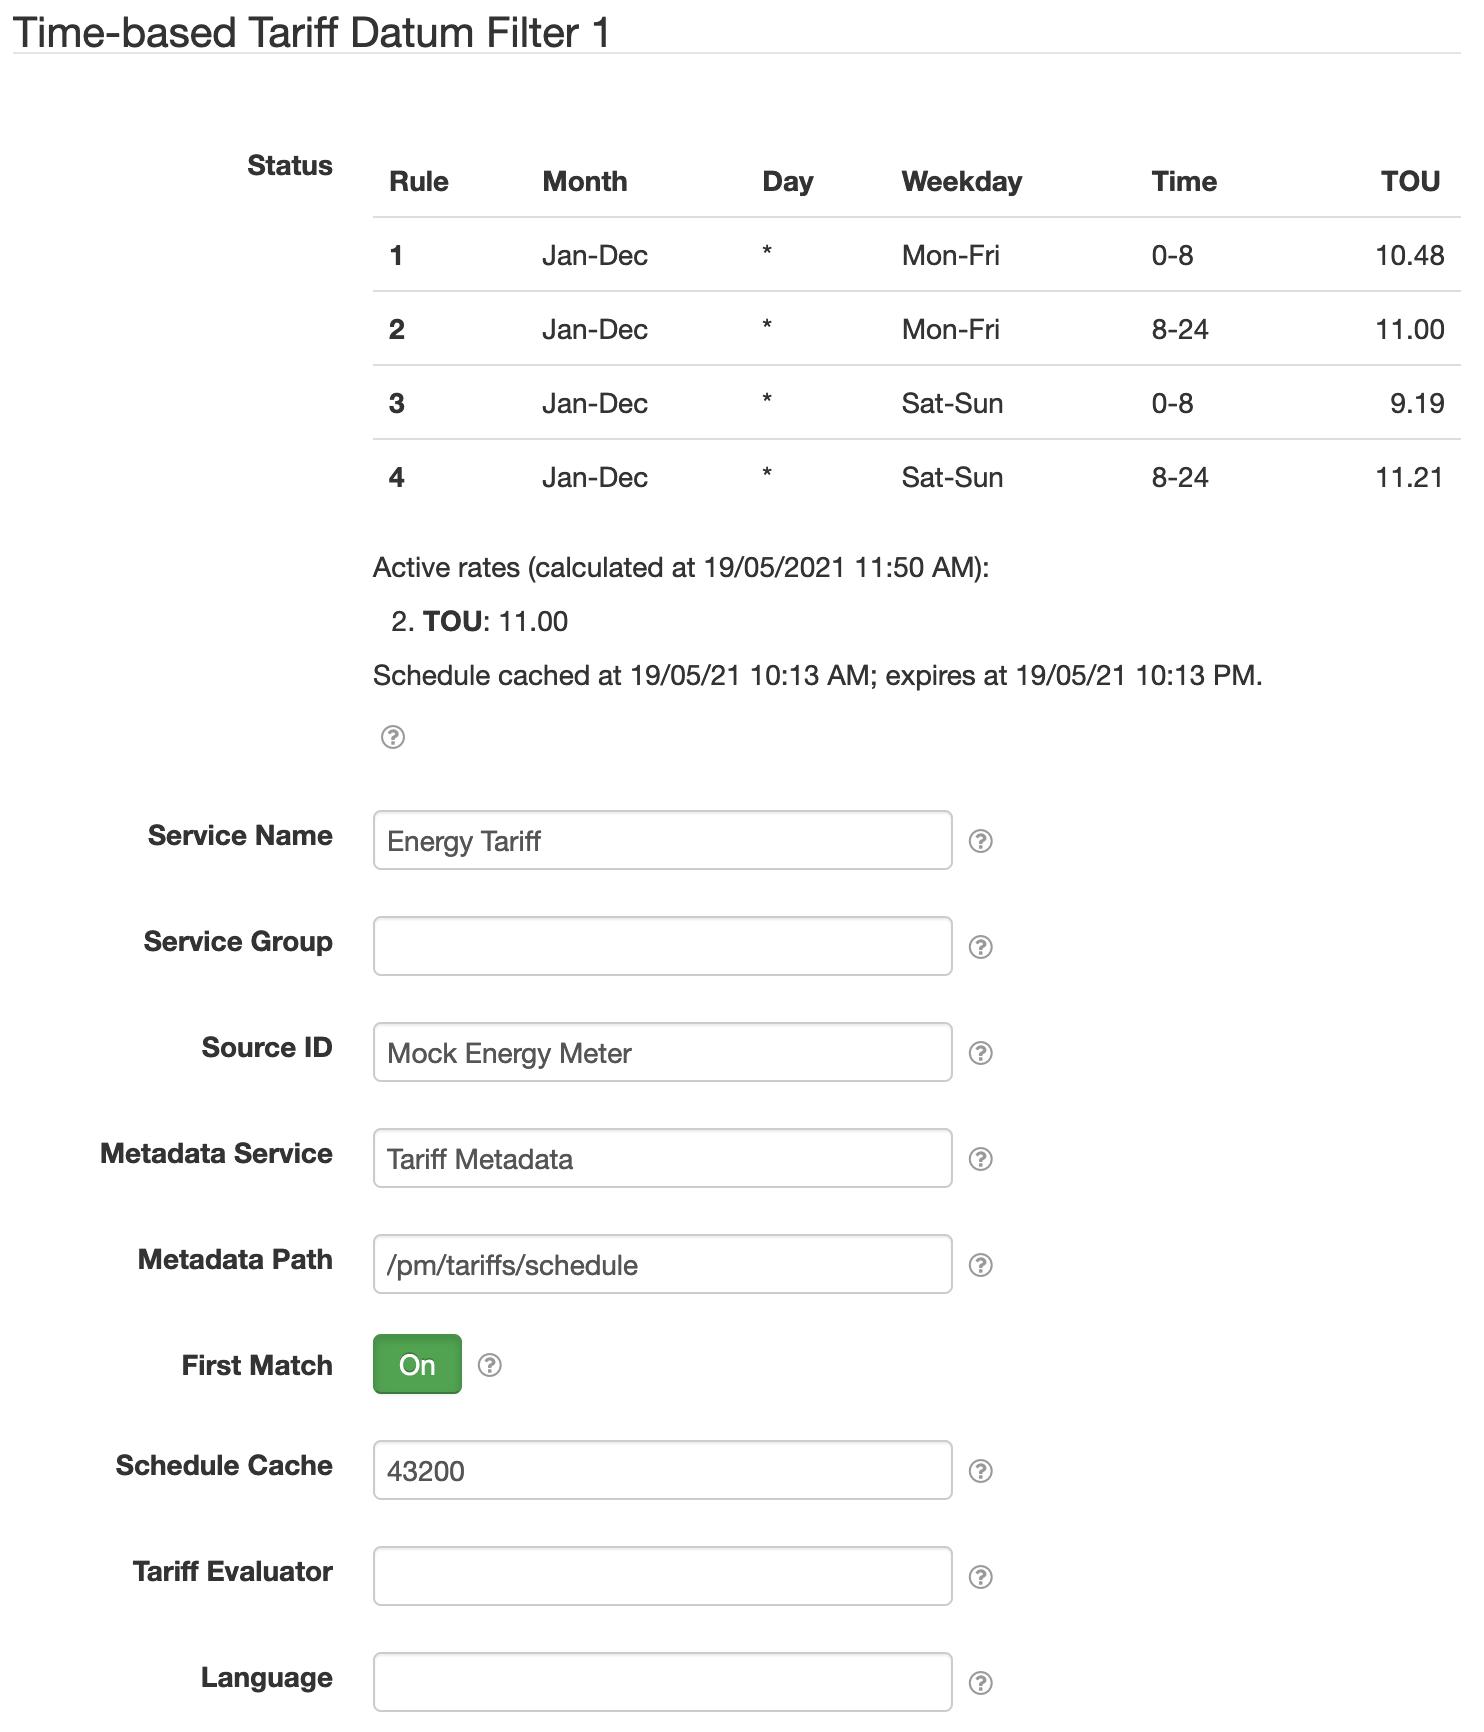
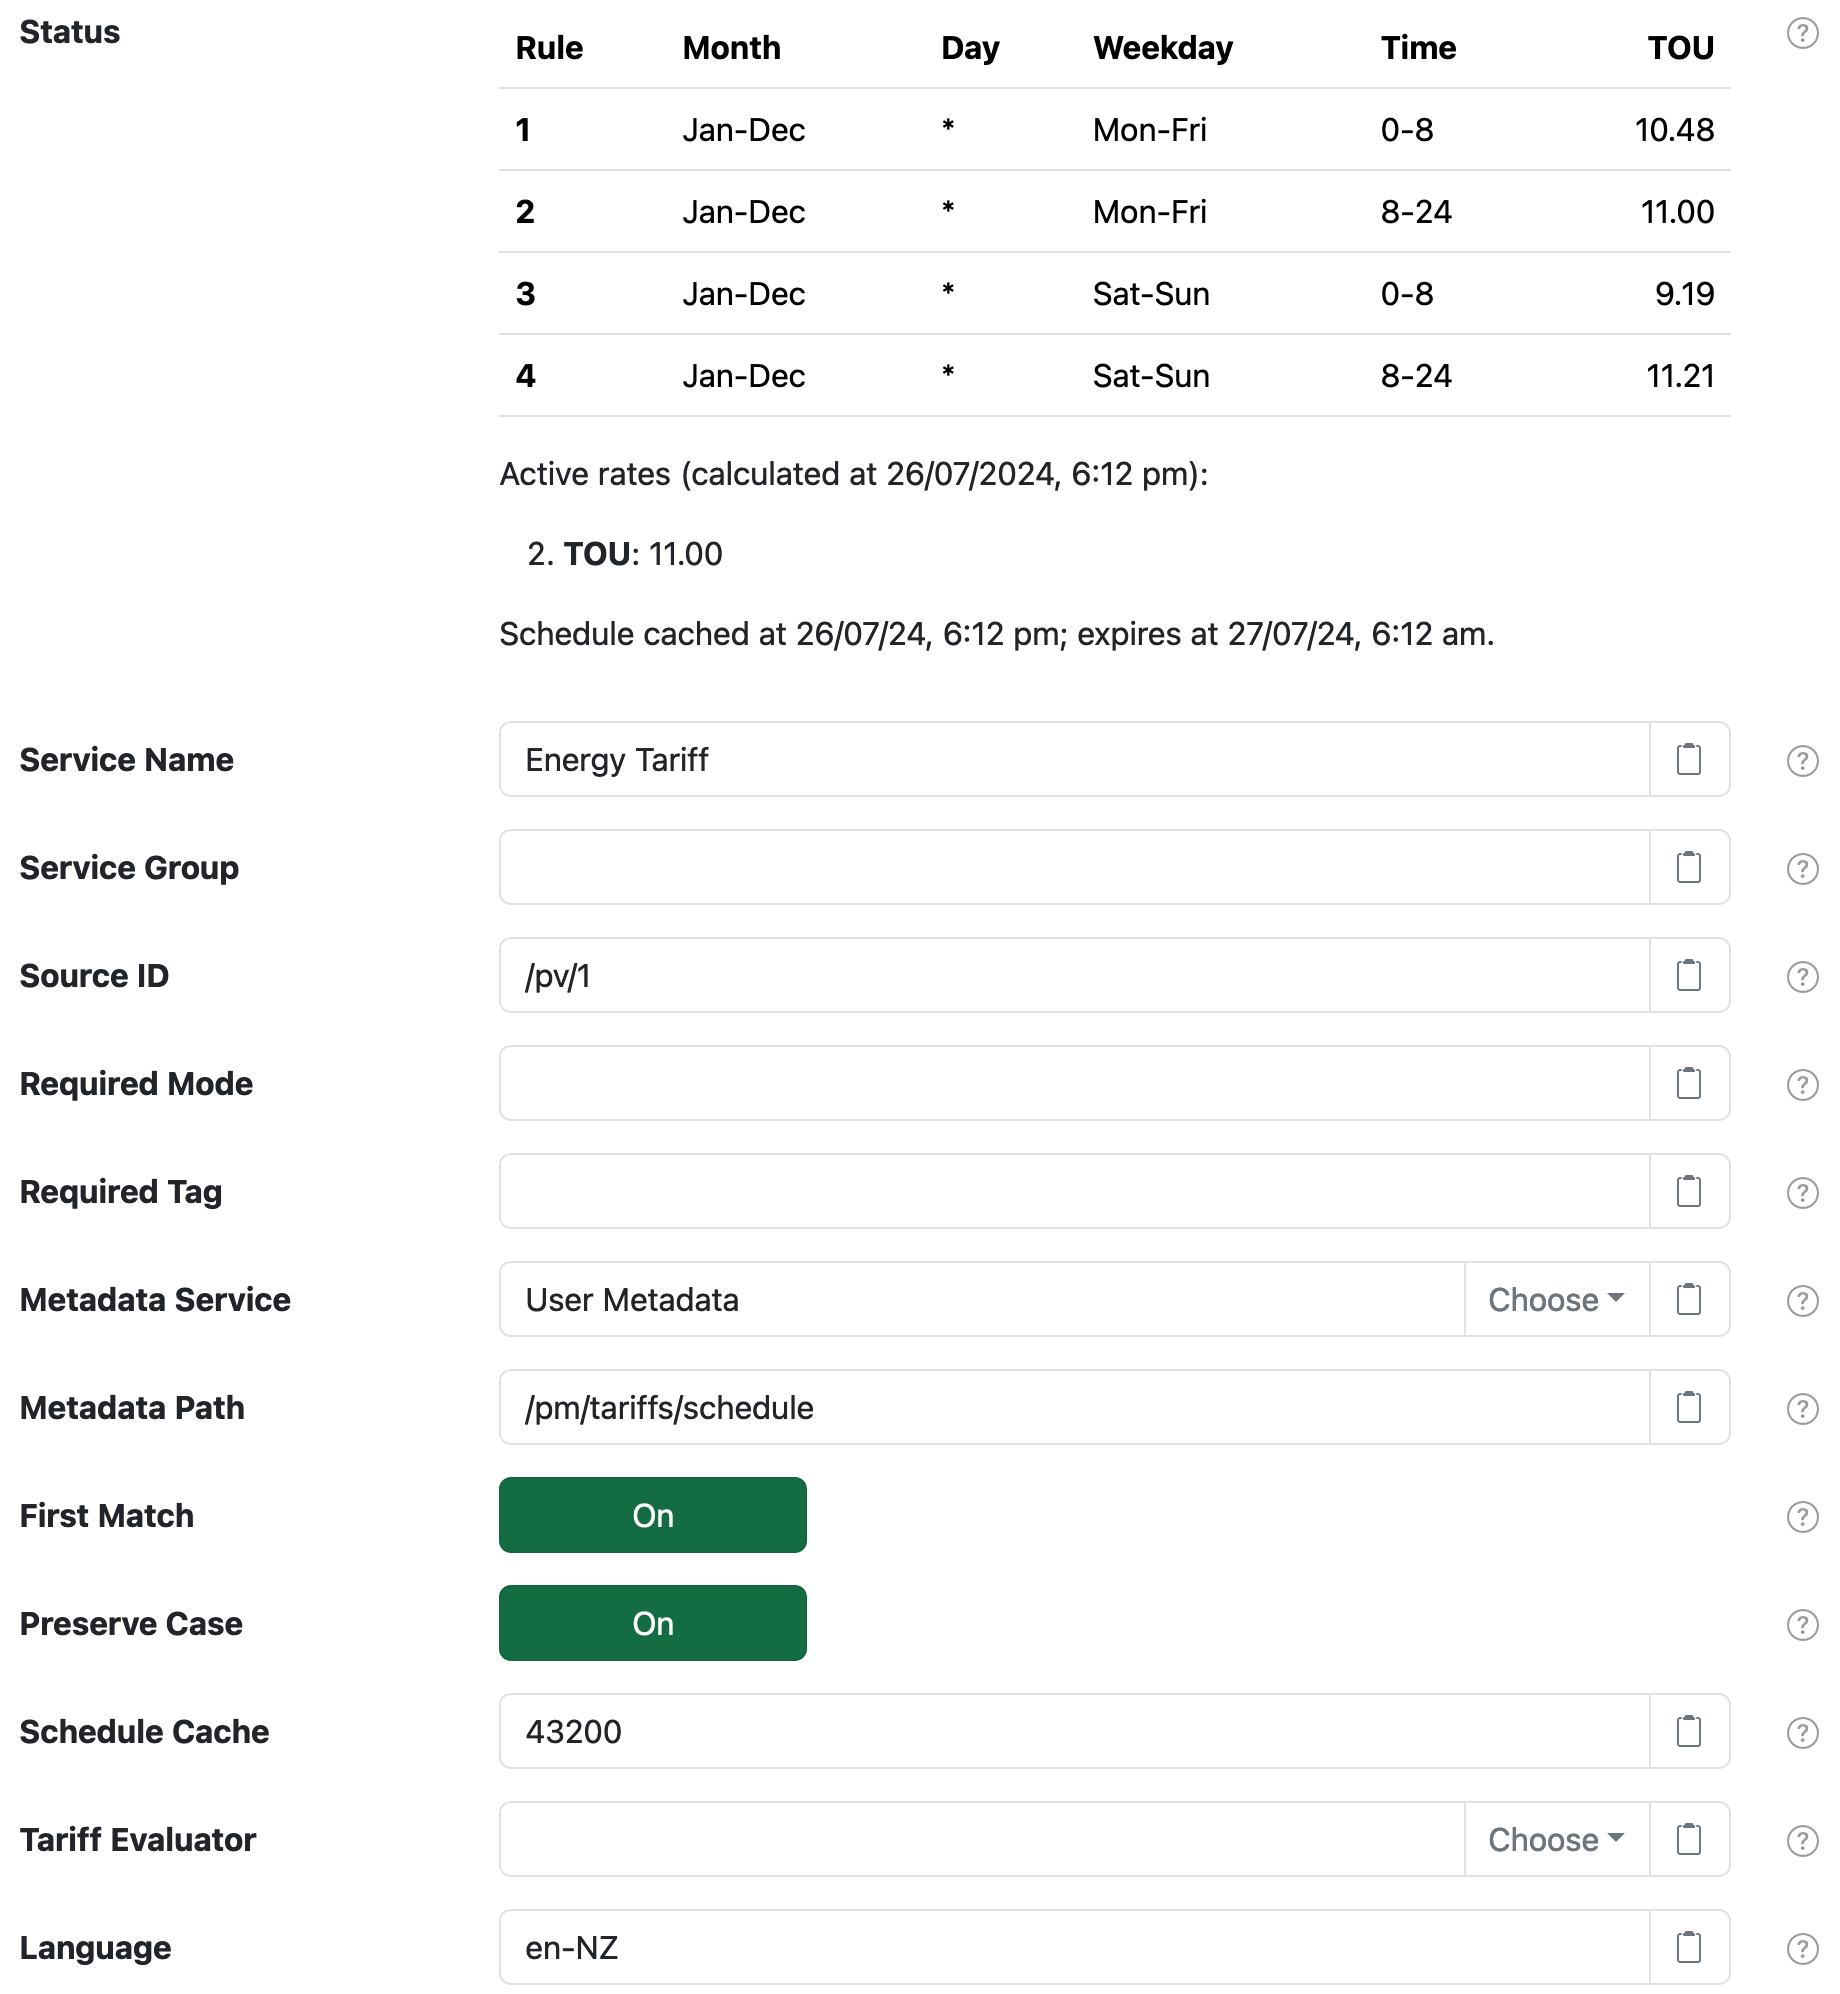
Update to latest Tariff API.

diff --git a/net.solarnetwork.node.datum.filter.tariff/src/net/solarnetwork/node/datum/filter/tariff/TariffDatumFilterService.java b/net.solarnetwork.node.datum.filter.tariff/src/net/solarnetwork/node/datum/filter/tariff/TariffDatumFilterService.java
@@ -175,7 +175,7 @@ public class TariffDatumFilterService extends BaseDatumFilterSupport
 		result.add(new BasicTextFieldSettingSpecifier("scheduleCacheSeconds",
 				String.valueOf(DEFAULT_SCHEDULE_CACHE_SECONDS)));
 		result.add(new BasicTextFieldSettingSpecifier("evaluatorUid", null, false,
-				"(objectClass=net.solarnetwork.domain.tariff.TemporalRangesTariffEvaluator)"));
+				"(objectClass=net.solarnetwork.domain.tariff.TemporalTariffEvaluator)"));
 		result.add(new BasicTextFieldSettingSpecifier("language", null));
 		return result;
 	}

diff --git a/net.solarnetwork.node.datum.filter.tariff/README.md b/net.solarnetwork.node.datum.filter.tariff/README.md
@@ -15,7 +15,7 @@ Once installed, a new **Time-based Tariff Datum Filter** component will appear o
 **Settings > Datum Filter** page on your SolarNode. Click on the **Manage** button to configure 
 filters.
 
-![Tariff filter settings](docs/solarnode-tariff-filter-settings.png)
+<img alt="Tariff filter settings" src="docs/solarnode-tariff-filter-settings.png" width="920">
 
 # Settings
 
@@ -48,21 +48,24 @@ Each filter configuration contains the following overall settings:
 
 # Metadata Service
 
-SolarNode provides a **User Metadata Service** component that this filter can use for the Metadata
-Service setting. This allows you to configure the tariff schedule as user metadata in SolarNetwork
-and then SolarNode will download the schedule and use it as needed.
+SolarNode provides **Node Metadata Service** and **User Metadata Service** components that this filter
+can use for the **Metadata Service** setting. This allows you to configure the tariff schedule as either
+node or user metadata in SolarNetwork and then SolarNode will download the schedule and use it as needed.
 
-![User Metadata Service settings](docs/solarnode-user-metadata-settings.png)
+The **Node Metadata Service** does not require any configuration to use (its **Service Name** is simply
+`Node Metadata Service`), but the **User Metadata Service** requires setting up.
+
+<img alt="User Metadata Service settings" src="docs/solarnode-user-metadata-settings.png" width="697">
 
 You must configure a SolarNetwork security token to use the User Metadata Service. We recommend
 that you create a **Data** security token in SolarNetwork with a limited security policy that includes an **API Path** of just `/users/meta` and a **User Metadata Path** of something granular like `/pm/tariffs/**`. This will give SolarNode access to just the tariff metadata under the `/pm/tariffs` metadata path.
 
-![Tariff metadata security token](docs/solaruser-tariff-metadata-security-token.png)
+<img alt="Tariff metadata security token" src="docs/solaruser-tariff-metadata-security-token.png" width="956">
 
 The [SolarNetwork API Explorer][api-explorer] can be used to add the necessary tariff schedule
 metadata to your account. For example:
 
-![API Explorer add tariff metadata](docs/api-explorer-add-tariff-user-metdata.png)
+<img alt="API Explorer add tariff metadata" src="docs/api-explorer-add-tariff-user-metdata.png" width="678">
 
 # Tariff schedule format
 
@@ -87,21 +90,29 @@ range can be left empty to represent **all values**. The time constraint columns
 | 3      | Weekday range | An inclusive day-of-week range. Weekdays can be specified as numbers (1-7) with Monday being `1` and Sunday being `7`, or abbreviations (Mon-Sun) or full names (Monday - Sunday). When using text names case does not matter and they will be parsed using the **Lanauage** setting. |
 | 4      | Time range | An **inclusive - exclusive** time-of-day range. The time can be specified as whole hour numbers (0-24) or `HH:MM` style (`00:00` - `24:00`). |
 
+## Range sets
+
+All range values can be specified as a comma-delimited set of ranges, so disparate ranges can be used.
+For example a Month range could be specified as `Jan-Mar,Oct-Dec` to represent the overall set of months
+including January, February, March, October, November, and December.
+
+## Rate columns
+
 Starting on column 5 of the tariff schedule are arbitrary rate values to add to datum when the 
 corresponding constraints are satisfied. The name of the datum property is derived from the **header
 row** of the column, adapted according to the following rules:
 
- 1. change to lower case
+ 1. change to lower case (if **Preserve Case** is disabled)
  2. replacing any runs of non-alphanumeric or underscore with a single underscore
  3. removing any leading/trailing underscores
  
 Here are some examples of the header name to the equivalent property name:
 
-| Rate Header Name         | Datum Property Name |
-|:-------------------------|:--------------------|
-| TOU                      | `tou`               |
-| Foo Bar                  | `foo_bar`           |
-| This Isn't A Great Name! | `this_isn_t_a_great_name` |
+| Rate Header Name         | Datum Property Name | Datum Property Name with Preserve Case |
+|:-------------------------|:--------------------|:---------------------------------------|
+| TOU                      | `tou`               | `TOU` |
+| Foo Bar                  | `foo_bar`           | `Foo_Bar` |
+| This Isn't A Great Name! | `this_isn_t_a_great_name` | `This_Isn_t_A_Great_Name` |
 
 ## Example schedule
 
